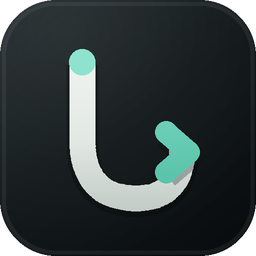
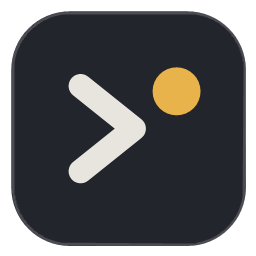
feat(web): 官网 V2 改版——穿上产品自己的品牌
站点从青绿 Notion 皮换成 V2 Agent Inbox 语言:页面底色就是 logo
的深蓝灰砖,正文是提示符的米白,强调色是那颗琥珀状态点——
「会告诉你状态的终端」由它的官网先穿上。语义 token 集中在
tailwind 一处,291 个类名原地换血。

大标语换成锁定的长期定位:The terminal AI agents can drive
(九语种同步;中文「AI agent 开得动的终端」),副标接上 0.62 的
核心叙事:会话住在窗口之外,侧栏告诉你谁在干活、谁在等你。
What's New 增补 v0.63 条目(九语种),版本徽标 0.61.1 → 0.63.0。

Logo A 补了正式 SVG(此前只有程序化 PNG;Linux scalable 图标
顺带归位),站点 favicon/头标全套换新。

diff --git a/web/src/lib/stats.ts b/web/src/lib/stats.ts
@@ -41,7 +41,7 @@ export interface Stats {
 // `releases/latest/download/Unterm-macos-${stats.release}.dmg`; if this
 // fallback drifts from the published asset names, users hit a 404 when the
 // GitHub API fetch fails at build time.
-const FALLBACK: Stats = { stars: null, downloads: null, release: "v0.61.1" };
+const FALLBACK: Stats = { stars: null, downloads: null, release: "v0.63.0" };
 
 let cache: Promise<Stats> | null = null;
 
